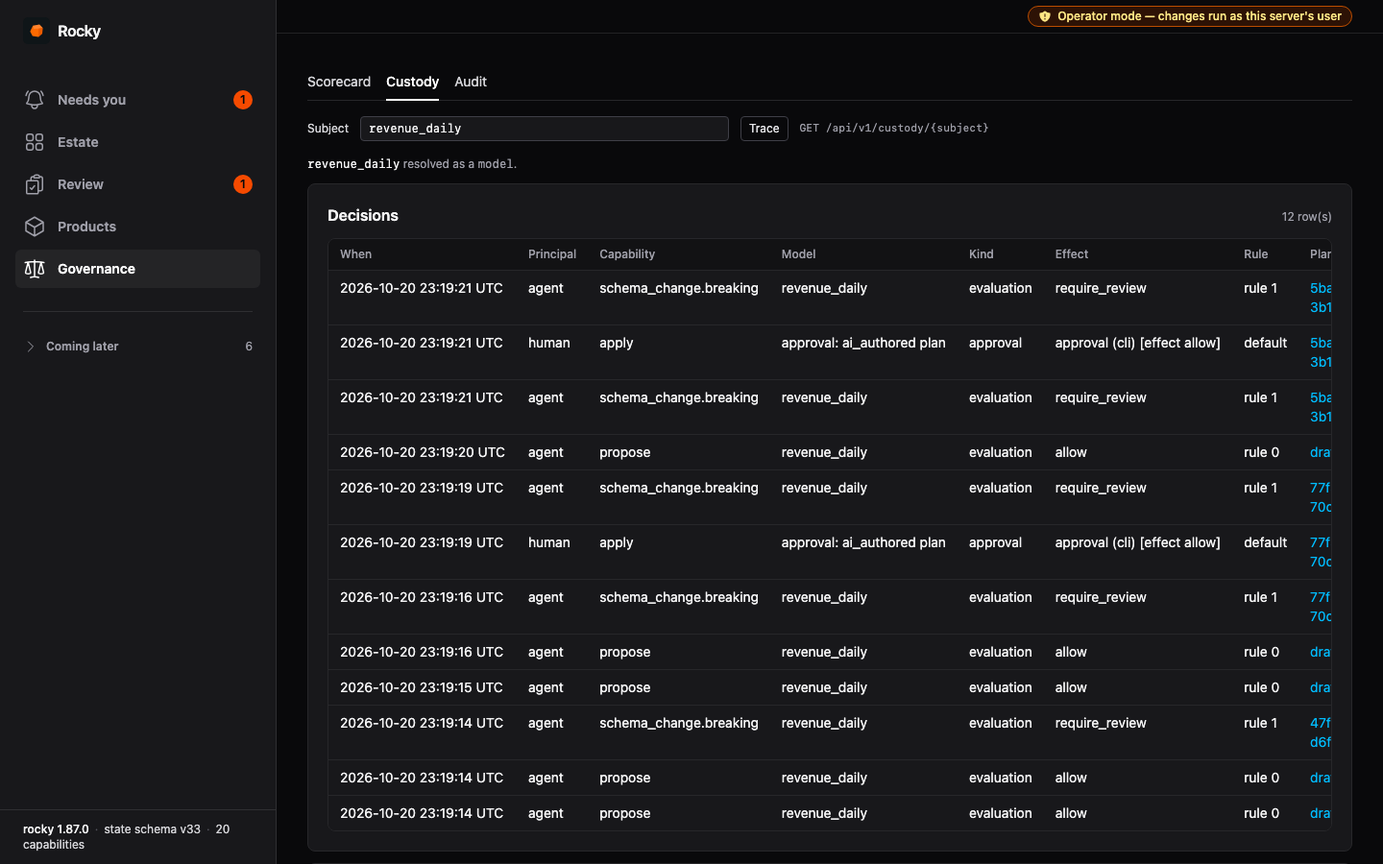
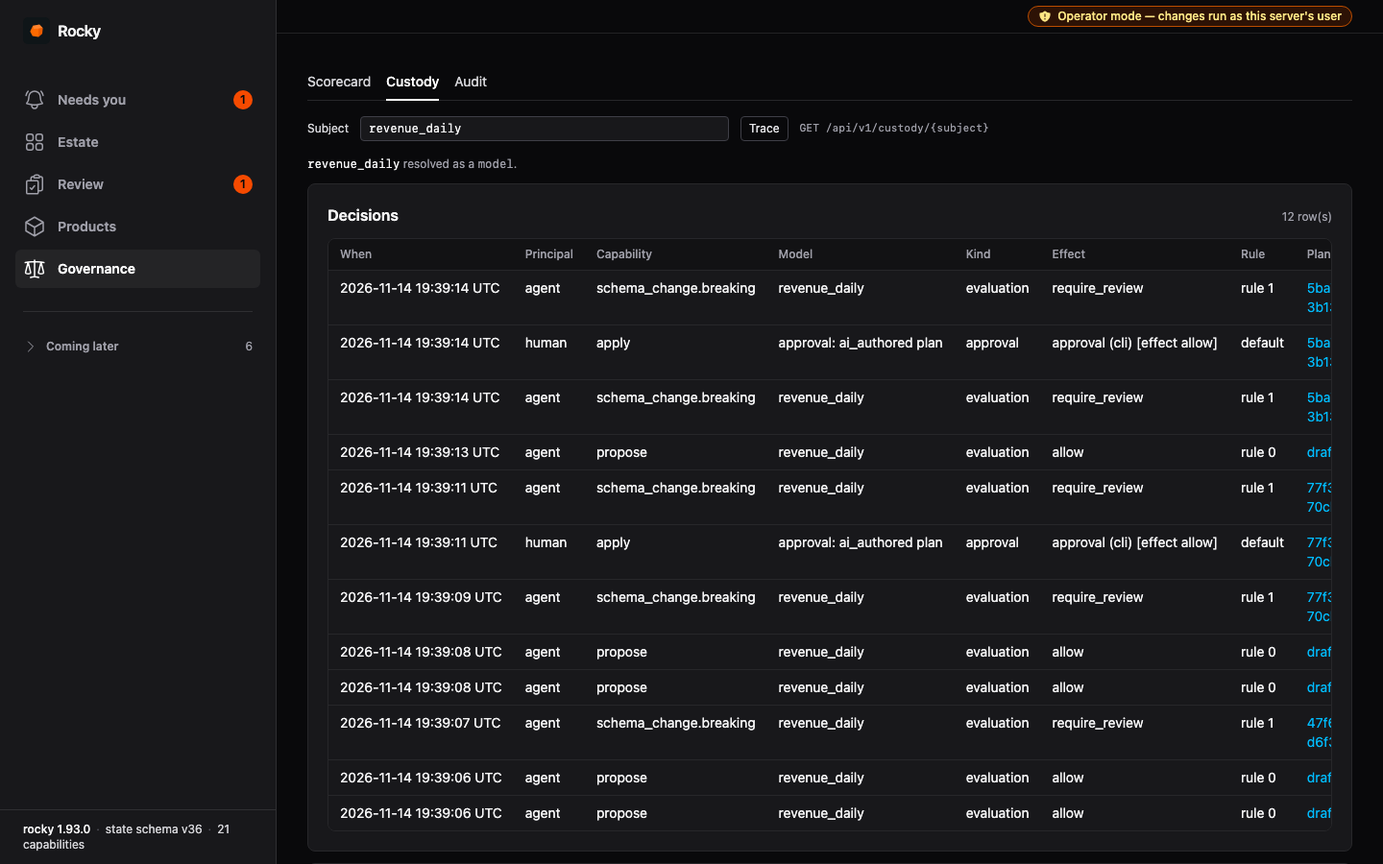
docs: refresh browser UI screenshots for engine 1.93.0; correct two superseded changelog lines (#2598)
Recaptured the browser UI screenshots and tour GIF from the released 1.93.0 binary (the published set showed 1.87.0) and updated three alt texts to match. Two 1.93.0 Added lines now point to the Fixed entries that changed them (#2582, #2587). The 1.93.0 upgrade note now says rocky-sdk 0.32.0's CostUnit rejects the new AI-token units, so RockyClient.cost_by_product() raises; use rocky-sdk 0.33.0.

diff --git a/engine/CHANGELOG.md b/engine/CHANGELOG.md
@@ -17,7 +17,7 @@ and this project adheres to [Semantic Versioning](https://semver.org/spec/v2.0.0
 
 - **State schema goes from 34 to 36.** 1.92.0 wrote schema 34. This release adds `ai_usage` (v35, local-only) and `product_volume_breaches` (v36, replicated). The first read-write open stamps the store v36 in place and keeps every record. Once that has happened, 1.92.0 refuses to open the local store. With `[state] on_schema_mismatch = "recreate"`, 1.92.0 instead moves it aside once and starts a fresh store. With remote state (`s3`, `gcs`, `valkey`, `tiered`), 1.93.0 reads the `v34/` key and writes a new `v36/` key. A 1.92.0 binary keeps reading `v34/`, so it sees state as of its own last upload and nothing 1.93.0 recorded. 1.93.0 never writes or deletes the `v34/` key. Upgrade every binary that shares a state store at the same time: scheduler, workers and CI. To roll back a local store, restore the file from before the first 1.93.0 run. To roll back remote state, nothing needs restoring, but 1.92.0 resumes from its last `v34/` upload and does not see anything 1.93.0 did.
 - **An `error` volume breach on a product output now stays open until the output is rebuilt (#2581).** Every later run that builds the model fails it and withholds downstream, even when that run's load is in range. To clear it, rebuild the output (`--full-refresh`; for a time-interval output `--missing`, `--partition` or `--from`/`--to`), or run `rocky product clear-breach <name> --model <model>`. A `warning` breach is unchanged. `[product.output.volume]` now also applies to incremental, merge and time-interval outputs, and judges each load there, not the table's total. `rocky product verify` refuses a merge-basis range at `severity = "error"` on Databricks, Snowflake, BigQuery, Trino or Redshift (`volume-merge-count-unavailable`), and Phase B refuses a spec with a volume whose output model does not load (`volume-strategy-unresolved`).
-- **A run that a freeze holds is no longer a failure (#2569).** It is not retried, `consecutive_failures` does not move, and `rocky tick` counts it in the new `counts.held`, not `counts.failed`. A hold alone does not fail the tick. A held cron or webhook occurrence is finished and is not re-run when the freeze lifts: run it by hand if you need it. Alerts on tick failures or `counts.failed` no longer see held runs; watch `counts.held` or the `freeze_hold` incident bundle instead. A consumer with a closed enum must add `freeze_hold`: a skip reason in `rocky tick` output and the `rocky.scheduler.skipped` metric label, and a throttle kind in `rocky schedule status`. The generated `schedule_status_schema` models in rocky-sdk 0.32.0 are such a consumer: they reject `freeze_hold`. `RockyClient` in 0.32.0 does not parse `rocky schedule status`, so only code that validates that output with the generated models directly is affected.
+- **A run that a freeze holds is no longer a failure (#2569).** It is not retried, `consecutive_failures` does not move, and `rocky tick` counts it in the new `counts.held`, not `counts.failed`. A hold alone does not fail the tick. A held cron or webhook occurrence is finished and is not re-run when the freeze lifts: run it by hand if you need it. Alerts on tick failures or `counts.failed` no longer see held runs; watch `counts.held` or the `freeze_hold` incident bundle instead. A consumer with a closed enum must add `freeze_hold`: a skip reason in `rocky tick` output and the `rocky.scheduler.skipped` metric label, and a throttle kind in `rocky schedule status`. The generated `schedule_status_schema` models in rocky-sdk 0.32.0 are such a consumer: they reject `freeze_hold`. `RockyClient` in 0.32.0 does not parse `rocky schedule status`. It does parse `rocky cost --month`: its `CostUnit` rejects the new `ai_input_tokens` and `ai_output_tokens` units, so `cost_by_product()`, and `product_status()` through its month cost, raise once a month records an AI call. Use rocky-sdk 0.33.0 with this release.
 - **`rocky schedule tick` now deletes old schedule claims (#2567).** At most once per 24 hours it removes `completed` and `released` claims older than 7 days. It never removes a `submitted` claim or one whose retry cycle is still open. If you read old claims through `GET /api/v1/schedule`, save any older than 7 days before upgrading. Two related scheduler changes can add incident bundles: a claim whose child is still running past `timeout_minutes` writes one `overrun` bundle (#2568), and a cron occurrence whose child never recorded a run is recorded as a lost failure after 5 minutes.
 - **Typing changes can change `rocky compile` results.** Run `rocky compile` (with `--strict-contracts` if your CI uses it) on 1.93.0 before you roll it out:
   - `SUM` over a `FLOAT` column is now `Float64` on DuckDB and Databricks and `Float32` on PostgreSQL and Trino. A `Float32` contract on such a sum on DuckDB now fails with `E011`: change it to `Float64`. On other warehouses, a mix that disagrees, or no target, it is untyped: the contract type is not checked (`I003`), and is `E059` under `--strict-contracts`.
@@ -25,19 +25,19 @@ and this project adheres to [Semantic Versioning](https://semver.org/spec/v2.0.0
   - Two-argument `IFNULL` and `NVL` now type like `COALESCE`. A contract type on such a column that was not checked before is now checked and can fail with `E011`. A column that was nullable can now be NOT NULL, except as a rolled-up key (next item).
   - Under `GROUP BY ROLLUP`, `CUBE` or `GROUPING SETS`, an output over a rolled-up key is now nullable (#2566). A `nullable = false` contract on it now fails with `E012`, because subtotal rows really hold NULL there. Set `nullable = true`. This includes a key that is in every grouping set or that a `HAVING` filters. An unaliased output under an outer join or a `ROLLUP` no longer keeps its source column's NOT NULL bit either.
   - Fewer, smaller changes in the same direction: `UNION`/`INTERSECT`/`EXCEPT BY NAME`, column-list aliases (#2572), `POSITIONAL JOIN`, `UPPER`/`LOWER`, `/` on a DuckDB-only model (a `Decimal` contract on it now fails with `E011`), and BigQuery and Snowflake column nullability. See Fixed.
-- **`rocky ai-contract` and the MCP `ai_contract` tool now read live types from the warehouse.** They describe every source table the drafted model and its upstream models read, and they profile on any configured warehouse, not only DuckDB. The credentials they run with need to describe those source tables and read the profiled table. On a metered warehouse a profile reads the whole table once per column, which costs money; `--sample` is still DuckDB only. Drafts can differ from 1.92.0 for the same model. A table that cannot be described is listed in the new `unresolved_sources`. In JSON, `profiled_table` and `fell_back_from` now carry the catalog when the target has one. Nothing is written to the schema cache or the state store. The MCP grounding tools now address a model target with the quoted `format_table_ref` (#2582, under Fixed); this supersedes the Added entry's "MCP still addresses a model target unquoted".
+- **`rocky ai-contract` and the MCP `ai_contract` tool now read live types from the warehouse.** They describe every source table the drafted model and its upstream models read, and they profile on any configured warehouse, not only DuckDB. The credentials they run with need to describe those source tables and read the profiled table. On a metered warehouse a profile reads the whole table once per column, which costs money; `--sample` is still DuckDB only. Drafts can differ from 1.92.0 for the same model. A table that cannot be described is listed in the new `unresolved_sources`. In JSON, `profiled_table` and `fell_back_from` now carry the catalog when the target has one. Nothing is written to the schema cache or the state store. The MCP grounding tools now address a model target with the quoted `format_table_ref` (#2582, under Fixed).
 - **Full refresh on Trino is now a staged swap that renames tables (RD-009).** This covers transformation and replication full refresh, branch promote and quarantine `mode = "drop"`. The connecting user needs permission to rename tables. On a Trino catalog that cannot rename tables (Hive on Glue), a full refresh of an existing table now fails with the table untouched. A Trino target whose name ends in `__rocky_stage` or `__rocky_old` is refused. Do not run two replacements of the same Trino table at once: one can fail and leave a table to drop by hand. On every warehouse a drift rebuild no longer drops the target first; on BigQuery it now fails, keeping the old table, when the existing table's partitioning or clustering differs. A branch-promote plan written before this release that carries a pre-drop is refused on every warehouse except Trino: re-plan it.
 - **DuckDB discovery no longer finds schemas in attached catalogs.** A replication pipeline that picked up tables from an attached catalog by schema prefix no longer replicates them.
 - **`rocky validate` adds `V067`.** It is an error when a `[connector.<name>]` manifest is missing or invalid, or its `command` names a program path that does not exist. It also refuses `trigger = true` on an Airbyte pipeline without `allow_sync_trigger = true`. Run `rocky validate` before rolling out if CI gates on it.
 - **A webhook spool that hides its entries is now refused, not read as empty (#1903).** On an SMB share with access-based enumeration, `rocky tick` now reports `spool_unreadable`, `rocky doctor` warns and `GET /api/v1/schedule/spool` returns `500`. Give the reading process read access to the spool.
-- **`rocky mcp` and `rocky lsp` now pick the state store as the CLI does (#2587):** `--state-path`, then `--state-namespace`, then `[state] namespacing = "pipeline"`. Under a namespace or an explicit path, `rocky mcp` reads decisions and the review queue from that store, not the default one. This supersedes the Added cost entry's "always use the default state file".
+- **`rocky mcp` and `rocky lsp` now pick the state store as the CLI does (#2587):** `--state-path`, then `--state-namespace`, then `[state] namespacing = "pipeline"`. Under a namespace or an explicit path, `rocky mcp` reads decisions and the review queue from that store, not the default one.
 - **`rocky cost --month` for the month you upgrade reports `ai_tokens` as `partial`.** AI usage is recorded from the first open at v35 on. If that month has recorded calls, the whole money total is `partial`, and a `max_usd` budget is `not_evaluated` unless the priced figures alone exceed it. Set `[cost] ai_cost_per_million_tokens` (and `cross_region_transfer_cost_per_gb` for egress), or those figures report `no_price`.
 - **Rust library API.** `SqlDialect::full_refresh_needs_predrop` is replaced by `SqlDialect::table_replace` and `SqlDialect::rename_table_sql`. `DiscoveryAdapter::source_sync_states` takes the `include` filter as a second argument. DuckDB `[[attach]]` entries are now the tagged enum `DuckDbAttach`; the Iceberg TOML is unchanged.
 
 ### Added
 
 - A scheduled run that a freeze held no longer spends its retries on a run that cannot succeed (#2569). When an active freeze marker withholds work, `rocky run` records a `hold` (`kind = "freeze"`, `freeze_id`, `scope`, `reason`) on the run record and on `RunOutput`. The exit code does not change. The scheduler reads it from the run record: no in-tick retry, `consecutive_failures` stays as it is, and the cursor records `freeze_hold`. A standing demand is re-probed every 15 minutes, a flat interval. A held cron or webhook occurrence is finished and not re-run when the freeze lifts. The first held run writes one `freeze_hold` incident bundle that names the freeze; later runs held by the same freeze write none, until a run that is not held, or a different freeze, starts a new episode. A held run counts as a hold even when it had other failures too. `rocky tick` counts held runs in the new `counts.held`, not in `counts.failed` or `counts.partial`, and a hold alone does not fail the tick. New public enum values: the skip reason `freeze_hold` (tick output, `rocky.scheduler.skipped` metric label) and the `rocky schedule status` throttle kind `freeze_hold`; a consumer with a closed enum must add them. `ExecutedRunOutput.hold` names the freeze. A run the fence stopped because the marker listing failed has no `hold`, and it stays an ordinary retryable failure. The run record and the cursor take the new fields without a schema bump.
-- `rocky profile` and `rocky ai-contract` run on any configured warehouse, not only DuckDB. The table reference comes from the adapter's dialect: the target gets the quoted `format_table_ref` that `rocky run` writes with, and a source fallback gets the unquoted `ground_table_ref`, so Snowflake still folds its case. Before, Rocky built a bare `schema.table` with no catalog and no quoting. A profile reads the whole table once per column, which costs money on a metered warehouse. `--sample` stays DuckDB only: on another warehouse the profile reports `unavailable`. `profiled_table` and `fell_back_from` now carry the catalog when the model's target has one (`wh.staging.raw_orders`, was `staging.raw_orders`). Rocky checks the table exists with a zero-row query through the exact ref it will profile, and a name the dialect cannot address makes the profile `unavailable`, not an error. A count the warehouse returns in a form Rocky cannot read is now an error: before, it was read as 0, which could back a wrong `nullable = false` draft. The MCP `ai_contract` tool now profiles with the same `profile_column` as the CLI, in its statistics-only mode. MCP still addresses a model target unquoted (#2582).
+- `rocky profile` and `rocky ai-contract` run on any configured warehouse, not only DuckDB. The table reference comes from the adapter's dialect: the target gets the quoted `format_table_ref` that `rocky run` writes with, and a source fallback gets the unquoted `ground_table_ref`, so Snowflake still folds its case. Before, Rocky built a bare `schema.table` with no catalog and no quoting. A profile reads the whole table once per column, which costs money on a metered warehouse. `--sample` stays DuckDB only: on another warehouse the profile reports `unavailable`. `profiled_table` and `fell_back_from` now carry the catalog when the model's target has one (`wh.staging.raw_orders`, was `staging.raw_orders`). Rocky checks the table exists with a zero-row query through the exact ref it will profile, and a name the dialect cannot address makes the profile `unavailable`, not an error. A count the warehouse returns in a form Rocky cannot read is now an error: before, it was read as 0, which could back a wrong `nullable = false` draft. The MCP `ai_contract` tool now profiles with the same `profile_column` as the CLI, in its statistics-only mode. The MCP tools then still addressed a model target unquoted; #2582, under Fixed, gives them the quoted `format_table_ref`.
 - A `type = "duckdb"` adapter can attach a DuckLake catalog: `[[adapter.<name>.attach]]` with `type = "ducklake"`, `alias`, `metadata_path` (a local DuckDB file) and an optional local `data_path` (an `s3://` data path is refused until it has a conformance case). `rocky run` writes models whose target catalog is the alias as DuckLake tables. A full refresh is an atomic `CREATE OR REPLACE TABLE`. `full_refresh`, `ephemeral`, `incremental`, `merge`, `delete_insert`, `time_interval` and replication are supported; `view`, `materialized_view`, `dynamic_table`, `microbatch`, `content_addressed`, `snapshot`, a lakehouse `format`, seeds, `rocky load`, quarantine and promote are refused before any SQL runs; a promote plan is refused when it is built and checked for every step before apply's first write. Rocky makes relative paths absolute, never overrides the lake's stored data path, and refuses a lake whose stored data path is relative. A `metadata_path` holding a `:` (`sqlite:`, `postgres:`, `:memory:`) is refused by `rocky validate`. `[[attach]]` entries are now a tagged enum (`DuckDbAttach::Iceberg` / `DuckDbAttach::DuckLake`) in `rocky-core`; the Iceberg TOML is unchanged. A live test runs in the non-required `ducklake-conformance` workflow; see `docs/adr/ADR-DUCKLAKE.md` and the `07-adapters/13-duckdb-ducklake` POC.
 - A `type = "duckdb"` adapter can attach Iceberg REST catalogs with `[[adapter.<name>.attach]]` (`alias`, `type = "iceberg"`, `warehouse`, `endpoint`, `authorization = "none"`, and an `s3` table that becomes a temporary DuckDB secret). `rocky run` and every other connecting command attach them; `rocky compile`, `rocky plan` and `rocky emit-sql` never connect, but render with the same aliases. A model whose target catalog is an alias is written as an Iceberg table. A first build is `CREATE TABLE … AS`. A full refresh of an existing table is one transaction: the model's rows go to a temporary table first (so a model that reads its own table sees the old rows), `ALTER TABLE` adds new columns, drops removed ones and widens types (`INTEGER` to `BIGINT`, `FLOAT` to `DOUBLE`, a wider `DECIMAL` precision), then `DELETE` and `INSERT … BY NAME`, then `COMMIT`. Any failure rolls it back and keeps the old table and rows. A `COMMIT` that fails without saying why is reported as possibly committed. A re-run with no change runs no `ALTER`. A narrowing, a nested type change, a new nested column or dropping a partition column is refused with the table unchanged. With more than one attachment, each `s3` table needs a `scope`. A commit conflict with another writer runs the transaction again, up to 3 times. Append `incremental` is supported too. Everything else on an attached catalog is refused before any model runs, naming the strategy and the catalog: views, `merge`, `incremental` with a `unique_key` or a `lookback`, `delete_insert`, `time_interval`, `microbatch`, snapshots, quarantine, branch promote, seeds, `rocky load`, a lakehouse `format`, a replication full refresh of an existing table, and replacing an object of another kind. New: `SqlDialect::table_replace` can return `TableReplace::InPlaceOverwrite`, and `WarehouseAdapter::overwrite_in_place` runs it. POC: `07-adapters/09-duckdb-iceberg-rest`. ADR: `docs/adr/ADR-ICEBERG-DUCKDB.md`.
 - `rocky validate` checks each `[connector.<name>]` manifest offline (`V067`): `ok` when the manifest reads and its program exists, and an error when the manifest is missing or invalid, or when its `command` names a program path that does not exist. A bare program name is looked up on `PATH` at run time and is not checked.
@@ -45,7 +45,7 @@ and this project adheres to [Semantic Versioning](https://semver.org/spec/v2.0.0
 - `[pipeline.<name>.source.discovery.sync]` now works on an Airbyte discovery adapter, not only on Fivetran. `wait = true` waits for a running Airbyte job before `rocky run` reads the source. `trigger = true` starts one sync first, with `POST /v1/jobs` and `jobType = "sync"`, never a reset. It needs the same two opt-ins as Fivetran: `allow_sync_trigger = true` on `[adapter.<name>]` and `trigger = true` on the pipeline. Without the adapter's opt-in the Airbyte adapter sends no request. Each poll reads the connection list and the 25 newest jobs of each active selected connection, up to 10 reads at a time. The jobs must come newest first, or the read fails. A connection is syncing while its newest job has not ended, a reset or clear included. A stale unended job behind a newer ended one is ignored. `succeeded_at` and `failed_at` are the latest `lastUpdatedAt` of a `sync` or `refresh` job that succeeded, or that failed or was cancelled. A `reset` or `clear` job sets neither. An `inactive` connection, or one with an unknown status, counts as paused and its jobs are not read. A `deprecated` one is left out. A `2xx` answer to the sync request counts only if its body is a `sync` job, and a connect timeout is `Failed`, not `Unknown`. A `409` (a sync already runs) is waited out and not counted, as on Fivetran. `rocky validate` now accepts `wait = true` on `type = "airbyte"`, and refuses `trigger = true` there without `allow_sync_trigger = true`. New page: the Airbyte adapter reference.
 - An `error` volume breach on a product output now stays open until the output is rebuilt (#2581). Before, it failed the model only in the run that wrote the breached rows. The next in-range load passed and downstream built on the breached rows. Now the breach opens a marker in the new replicated state table `product_volume_breaches` (state schema 36). While a marker is open, every run that builds the model fails it, even when that run's load is in range, so downstream stays withheld. The load still writes its rows. The error names when the breach opened, the breached partitions, and the two ways to clear it. A rebuild clears the marker once it is judged in range: for an incremental, merge or full-refresh output, a build that created or replaced the whole table (a first run, `--full-refresh`, a drift rebuild); for a time-interval output, a rewrite of each breached partition (`--missing`, `--partition`, `--from`/`--to`). The marker goes when its last partition is clear. The new `rocky product clear-breach <name> --model <model>` deletes a marker by hand, and reports whether one was open. `rocky product status` gains `open_volume_breaches`, and `VolumeCheckOutput` gains `held_by_open_breach`. A `warning` breach opens no marker. A shadow or branch run neither reads nor writes markers. A marker is written right after the model's judgment. A failed write of a new marker fails the model. A failed delete only warns, and the marker stays. A v35 store opened for writing gets the empty table. A run that does not build a held output (`rocky run --model <downstream>`) withholds the models downstream of it, with the same message, so they do not build over the breached rows. A cancel after the write no longer skips the count, so a breach the cancelled run wrote still opens its marker. `rocky product clear-breach` reads `[state]` from `rocky.toml` and clears the marker inside a remote-state session: it downloads the state first, refuses when the download fails, and uploads the delete before it reports `was_open: true`. `rocky product status` reads the local state file only; with a remote state backend it now warns that its open breaches may lag another machine. On Valkey, or with `concurrency_control = "off"`, `clear-breach` warns that a run already in flight can upload the marker back. The `--skip-unchanged` gate always builds a held output, so the check can fail it. With a remote backend the marker reaches other machines when the run uploads its state, under the run's `on_upload_failure` policy; an ungoverned run whose state download fails continues without it, as for any state table.
 - `[product.output.volume]` now works on incremental, merge and time-interval outputs, not only full-refresh ones. On those outputs the range judges one load, not the table's total. An incremental output counts the rows its `INSERT` added, as the adapter reports them. With no report, it uses the table's `COUNT(*)` after the write minus its `COUNT(*)` before. When both exist and differ, the verdict is `not_evaluated`. This assumes the run is the table's only writer: another writer makes the two disagree, or, with no reported count, shifts the growth. A merge output, or an incremental one with a `unique_key`, counts the rows its one `MERGE` inserted or updated, as the warehouse reports them. A matched row counts even when its values did not change. A run that sends more than one statement has no count. A time-interval output is judged one partition at a time: each partition is counted with its own time window and judged against the whole range. A run that created or rebuilt the table counts every row in it. An `error` breach acts as on a full-refresh output: the model is marked failed after its write, `on_model_error` fires, downstream models are withheld, the run is partial and no `due_at` is stamped. The rows are not rolled back. The breach also opens a breach marker that keeps the model failed in later runs until it is rebuilt (#2581, next bullet). On a time-interval output, one partition at `error` fails the model. Only the breaching partitions are marked failed in the run record, and the model delivers nothing in that run: no partition of it gets a `due_at`, and the run does not count as the model's latest delivery. The other partitions stay successes in the record. A breaching partition is also recorded `failed` in the partition state, so `--missing`, `--partition` or `--from`/`--to` rewrite it and judge it again. Partitions written before another partition failed to run are judged too. On an incremental or merge output each load is judged alone, but an open breach marker keeps the model failed. The remedy is `--full-refresh`, which judges the whole table. `rocky product status` shows the newest build's verdict, and lists open breaches. A count Rocky cannot take exactly is `not_evaluated`, never a failure: a merge on an adapter that reports no row count (Databricks, Snowflake, BigQuery, Trino, Redshift), a missing count from before the write, or a table that lost rows during the run. Every `not_evaluated` check now adds a `volume_warnings` line with its reason, at either severity. `rocky product verify` accepts these outputs and still refuses views, ephemeral models, materialized views, dynamic tables, `delete_insert`, snapshot and content-addressed outputs (`volume-strategy-unsupported`). It also refuses a merge-basis range at `severity = "error"` when the model's adapter is Databricks, Snowflake, BigQuery, Trino or Redshift (`volume-merge-count-unavailable`), because every run there would be `not_evaluated`. When verify cannot tell the model's adapter, it passes with a `WARNING [volume-merge-count-unknown-adapter]` in its reason. On these outputs the Phase-B lowering writes no `row_count_range` test, which would count the whole table, and keeps a worker's own one. Phase B now refuses (`volume-strategy-unresolved`) when the spec declares a volume and the output model does not load. The run history now stores each check with its basis (`RunRecord.output_volumes`, one row per judged load or partition). `rocky product status` reports the newest production build's check, not the newest build that took a count. An older count no longer hides a newer build that took none: that build is `not_evaluated`. A stored count is judged only on the basis it was taken on. JSON: `VolumeCheckOutput` gains `basis` (`total_rows`, `rows_added`, `rows_touched`, `partition_rows`), and a time-interval output carries one check on each written partition. `ProductVolumeStatus` gains `basis` and `reason`. The DuckDB adapter now reports `rows_affected` for one `INSERT`, `UPDATE`, `DELETE` or `MERGE` statement. SQL Server now reports a row count only when exactly one statement in the batch touched rows. A trigger's rows no longer stand in for the write's. An unknown `basis` in a stored `output_volumes` row now reads as no basis instead of failing the run record.
-- `rocky cost --month <YYYY-MM> --by product` now meters AI tokens and egress. AI tokens: every AI call that returns a response is recorded, from `rocky ai`, `rocky ai-sync`, `rocky ai-explain`, `rocky ai-test`, `rocky ai-contract`, the LSP code actions and the MCP tools. The report charges a call to the product that owns the model it names, and any other call to `unallocated`. Two new units, `ai_input_tokens` and `ai_output_tokens`, share one money figure, `ai_tokens`, priced by `[cost] ai_cost_per_million_tokens` (one blended price). Recorded AI usage with no price gives `no_price`, not a low total. A call whose response gave no token counts adds nothing and is counted in `not_measured.ai_calls_without_usage`. The figure covers calls recorded in this state store only, and it is developer spend. State schema 35 adds a local-only `ai_usage` table. It holds a reserved row, `ai_usage_since` (not a `METADATA` key, because `METADATA` replicates), stamped when a store first opens at v35. A month that began before the stamp reports the `ai_tokens` part as `partial`. If that month has recorded calls, the whole money total is `partial` too, with no `money`, and a `max_usd` budget is `not_evaluated` unless the priced figures alone exceed the limit. With no recorded calls, the part is only listed and the rest of the month is priced. The LSP and MCP servers never write the state store: they append to `<state file name>.ai-usage.jsonl` (owner-only, under a file lock; the name is appended to the full file name, so `a.redb` and `a.db` do not share one), and the next process that holds the writer (`rocky run`, or `rocky ai` on a store already at schema 35) moves the lines into the table, skipping a call it already holds. `rocky ai` on an older store spools instead of upgrading it in place, so a pinned older binary can still open that store; a month with such calls reads `partial`. The spool has no size limit while no process drains it. `rocky cost` reads both, once per call, and attributes a call by who owns the model when the report runs. The LSP and MCP servers always use the default state file, not `--state-path` or `--state-namespace`; `rocky cost` warns when the default store's spool holds calls it does not read. A spool line that is not valid UTF-8 or JSON spoils only itself. Lines and rows that cannot be read are counted in `not_measured.ai_records_dropped`; a drain keeps its count in the store, so the loss stays visible after the spool is emptied. `[state.retention]` domain `history` also sweeps AI calls older than `max_age_days`. Egress: `egress_bytes` is new on `ExecutionStats`, `MaterializationOutput` and the stored model execution, and the new unit `egress_bytes` is split like model time and priced by `[cost] cross_region_transfer_cost_per_gb`. No adapter reports egress yet. When some executions report it and others do not, the report prices the reported sum and counts the rest in `not_measured.egress_unreported_executions`. For both figures, `0` is a valid explicit price, and an unset price is `no_price`. A `no_price` table view names the missing `[cost]` keys. A `max_usd` budget with a priced part over the limit is `breached` even when another figure has no price. A reported zero of egress or AI tokens counts as measured, and is priced at $0. Egress that a failed execution with no output table reported is charged to `unallocated`. JSON: `ProductMonthCostOutput.not_measured` gains `egress_unreported_executions`, `ai_calls_without_usage` and `ai_records_dropped`, `CostUnit` gains `egress_bytes`, `ai_input_tokens` and `ai_output_tokens`, `MoneyFigure` keeps `egress` and `ai_tokens`, and `MaterializationOutput` gains `egress_bytes`. `SweepReport` gains `ai_usage_deleted` and `ai_usage_kept`.
+- `rocky cost --month <YYYY-MM> --by product` now meters AI tokens and egress. AI tokens: every AI call that returns a response is recorded, from `rocky ai`, `rocky ai-sync`, `rocky ai-explain`, `rocky ai-test`, `rocky ai-contract`, the LSP code actions and the MCP tools. The report charges a call to the product that owns the model it names, and any other call to `unallocated`. Two new units, `ai_input_tokens` and `ai_output_tokens`, share one money figure, `ai_tokens`, priced by `[cost] ai_cost_per_million_tokens` (one blended price). Recorded AI usage with no price gives `no_price`, not a low total. A call whose response gave no token counts adds nothing and is counted in `not_measured.ai_calls_without_usage`. The figure covers calls recorded in this state store only, and it is developer spend. State schema 35 adds a local-only `ai_usage` table. It holds a reserved row, `ai_usage_since` (not a `METADATA` key, because `METADATA` replicates), stamped when a store first opens at v35. A month that began before the stamp reports the `ai_tokens` part as `partial`. If that month has recorded calls, the whole money total is `partial` too, with no `money`, and a `max_usd` budget is `not_evaluated` unless the priced figures alone exceed the limit. With no recorded calls, the part is only listed and the rest of the month is priced. The LSP and MCP servers never write the state store: they append to `<state file name>.ai-usage.jsonl` (owner-only, under a file lock; the name is appended to the full file name, so `a.redb` and `a.db` do not share one), and the next process that holds the writer (`rocky run`, or `rocky ai` on a store already at schema 35) moves the lines into the table, skipping a call it already holds. `rocky ai` on an older store spools instead of upgrading it in place, so a pinned older binary can still open that store; a month with such calls reads `partial`. The spool has no size limit while no process drains it. `rocky cost` reads both, once per call, and attributes a call by who owns the model when the report runs. The LSP and MCP servers pick the state store as the CLI does (#2587, under Fixed); `rocky cost` warns when the default store's spool holds calls it does not read. A spool line that is not valid UTF-8 or JSON spoils only itself. Lines and rows that cannot be read are counted in `not_measured.ai_records_dropped`; a drain keeps its count in the store, so the loss stays visible after the spool is emptied. `[state.retention]` domain `history` also sweeps AI calls older than `max_age_days`. Egress: `egress_bytes` is new on `ExecutionStats`, `MaterializationOutput` and the stored model execution, and the new unit `egress_bytes` is split like model time and priced by `[cost] cross_region_transfer_cost_per_gb`. No adapter reports egress yet. When some executions report it and others do not, the report prices the reported sum and counts the rest in `not_measured.egress_unreported_executions`. For both figures, `0` is a valid explicit price, and an unset price is `no_price`. A `no_price` table view names the missing `[cost]` keys. A `max_usd` budget with a priced part over the limit is `breached` even when another figure has no price. A reported zero of egress or AI tokens counts as measured, and is priced at $0. Egress that a failed execution with no output table reported is charged to `unallocated`. JSON: `ProductMonthCostOutput.not_measured` gains `egress_unreported_executions`, `ai_calls_without_usage` and `ai_records_dropped`, `CostUnit` gains `egress_bytes`, `ai_input_tokens` and `ai_output_tokens`, `MoneyFigure` keeps `egress` and `ai_tokens`, and `MaterializationOutput` gains `egress_bytes`. `SweepReport` gains `ai_usage_deleted` and `ai_usage_kept`.
 
 ### Fixed
 

diff --git a/docs/src/content/docs/guides/browser-ui.md b/docs/src/content/docs/guides/browser-ui.md
@@ -7,7 +7,7 @@ sidebar:
 
 `rocky serve --ui` serves a browser UI for one project. It shows the project's models and runs, the plans waiting for a human, and the policy decisions and product history the engine recorded. On your own machine, the UI can also make changes (see [Operator mode](#operator-mode)). Every value on the page comes from a typed `/api/v1` payload. Most of those payloads are the same ones the CLI prints with `--output json`.
 
-![A tour of the Rocky browser UI: the estate with its DAG, the review queue, an agent's breaking change awaiting a human, the governor brief, a model's custody chain, and a data product's journal](/demo-ui-tour.gif)
+![A tour of the Rocky browser UI: the estate with its DAG, the review queue, an agent's breaking change awaiting a human, the governor brief, a model's custody chain, and a data product's delivery and cost](/demo-ui-tour.gif)
 
 The UI ships inside the release binaries and the container image. A sidebar lists eleven areas. Five open a screen today:
 
@@ -141,7 +141,7 @@ Apply runs the models as they are on disk, not SQL stored in the plan. So it che
 
 Products shows each [data product](/reference/commands/products/): its fulfillment loop state, its working spec digest, whether its approval is recorded, and its journal. The journal lists every event the engine recorded for the product, in order.
 
-![The products screen for revenue_daily: the loop state is observing, the approval is recorded, and the journal lists 82 events from ownership acquired through elicitation, spec approval, drafting and repair](/ui-governor-product.png)
+![The products screen for revenue_daily: the loop state is observing, the approval is recorded, and the Delivery and cost panel shows no deadline, no declared volumes, no known schedule, and this month's cost with no money figure because [cost] sets no price](/ui-governor-product.png)
 
 In operator mode, a product whose spec has no approval, or whose working spec differs from the approved one, shows an **Approve the spec** section. See [Approve a product spec](#approve-a-product-spec).
 
@@ -167,7 +167,7 @@ The scorecard shows acceptance, review and denial rates for a window you pick. G
 
 Enter a subject to trace its chain of custody. A subject is a model, a run id, a plan id, or another id the ledger records, such as `freeze:global`. It shows the decisions about it, the plan, the runs that applied it, any verification after apply, and its blast radius. It matches `rocky audit --for <subject>`.
 
-![The Custody tab for the model revenue_daily: ten policy decisions, the latest plan, two apply runs, no verification row, and a blast radius of zero downstream models](/ui-governor-custody.png)
+![The Custody tab for the model revenue_daily: a table of twelve policy decisions, agent proposals and breaking-change evaluations and the human approvals that applied them](/ui-governor-custody.png)
 
 ### Audit
 
